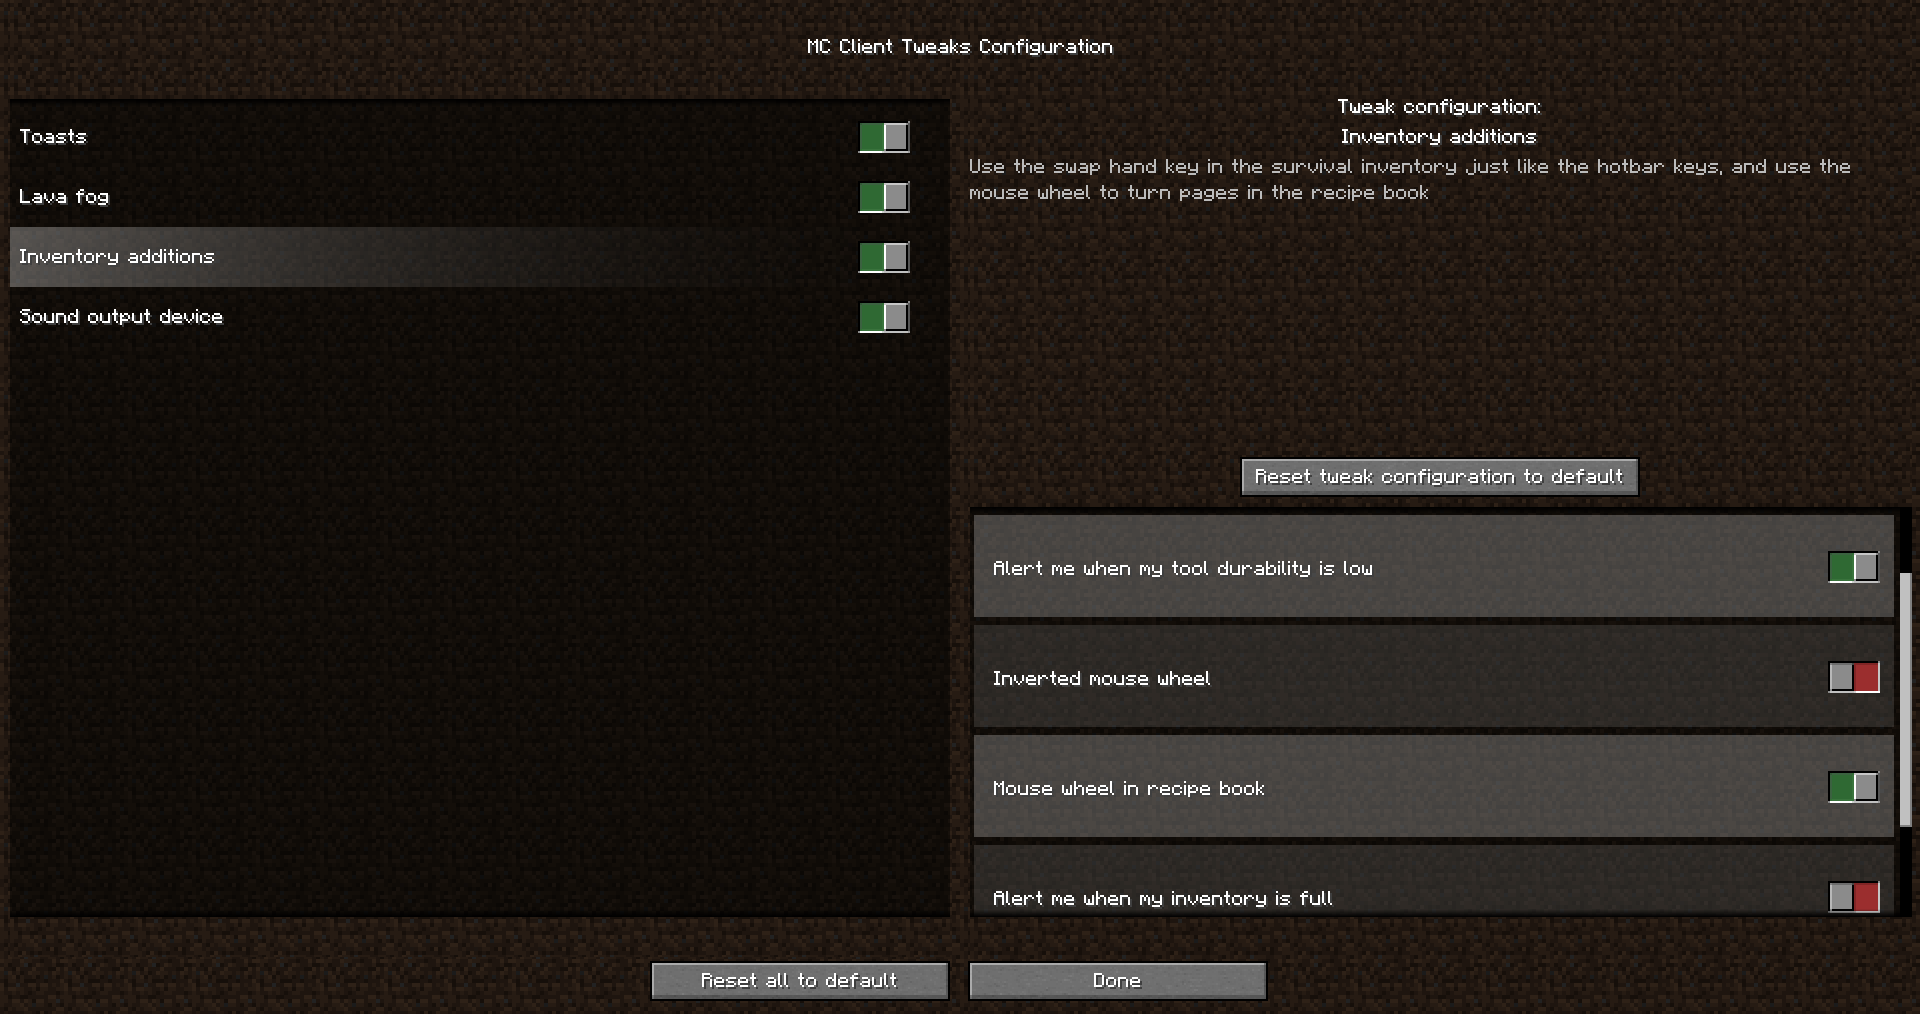
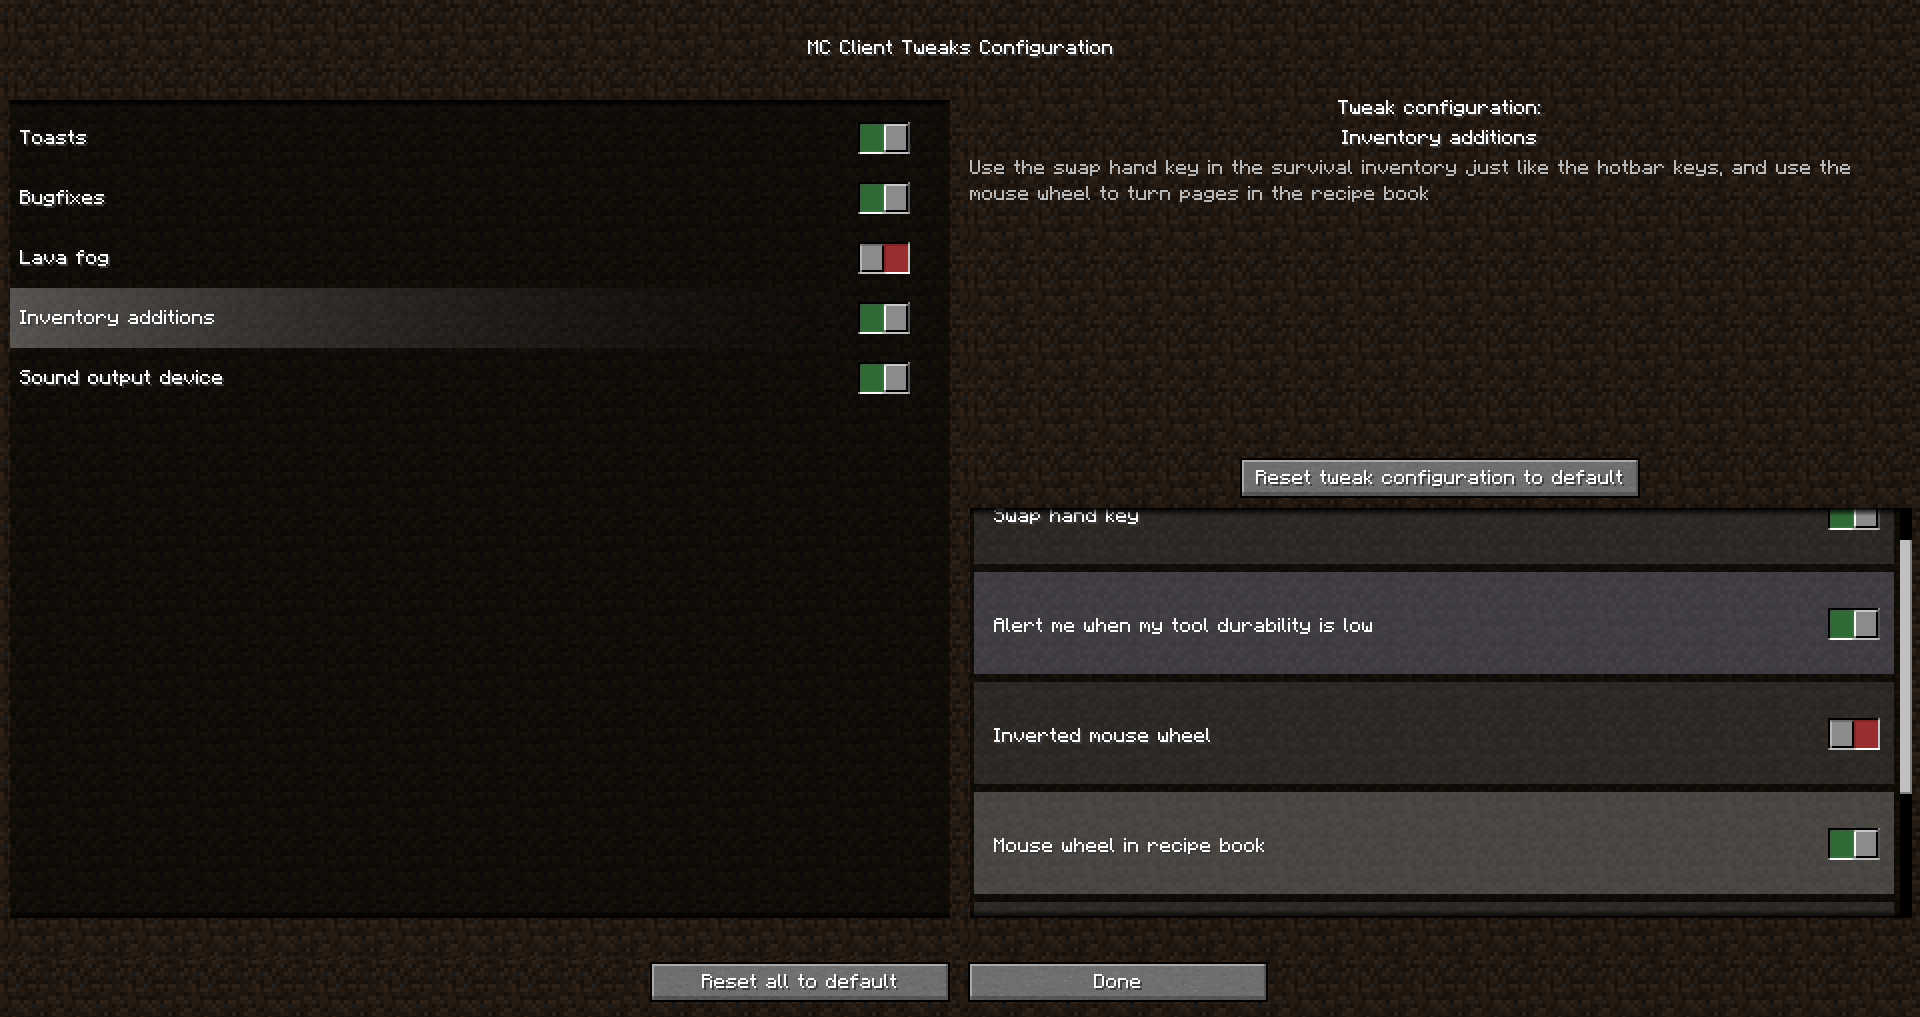
Updated readme

diff --git a/README.md b/README.md
@@ -4,16 +4,24 @@ MC Client Tweaks is a Minecraft [Fabric](https://fabricmc.net/) mod. It is entir
 Each tweak can be toggled on or off and configured in the configuration screen. It can be accessed by pressing the assigned key binding in-game (J by default), or from the mod information page using [Modmenu](https://www.curseforge.com/minecraft/mc-mods/modmenu).
 
 ## Tweaks:
- #### Inventory:
- * The switch hand key can be used in the survival inventory just like the hotbar keys.
+### Inventory:
+ * The switch hand key can be used in the survival inventory just like the hotbar keys (only for 1.15, 1.16 has that feature in the vanilla game).
  * You can scroll the mouse to turn pages in the recipe book.
- #### Miscelaneous:
+ * Get alerts when your inventory is full
+ * Get alerts when your item durability is low
+### Miscelaneous:
  * The audio output device can be changed in the sound/music options menu without restarting the game.
- * The lava fog density can be ajdusted for better visibility under lava
+ * The lava fog density can be adjusted for better visibility under lava (only 1.15, fire resistance already improves visibility under lava in 1.16).
+### Toasts:
+Toasts are the little cards that show up on the upper right side on your screen on specific occasions such as unlocking new recipes. MCCT allows you to disable specific types of toasts.
+### Bugfixes:
+* Vanilla bug [MC-200083](https://bugs.mojang.com/browse/MC-200083) : Opening files hangs the game until the file viewer is closed on Linux (e.g. opening screenshots, resource pack folder, etc...).
  
 ## Compatibility with other mods:
 MC Client Tweaks should be compatible with most mods. You can report incompatibility in the issues section. The lava fog tweak may not wotk with some Optifine/Optifabric versions, but has been tested to work with Optifine 15.2_HD_U_G1_pre13 and Optifabric 1.0.0-beta8.
 
 ## Screenshots:
-![Configuration menu](https://raw.githubusercontent.com/SmylerMC/mcct/master/images/mcct_config_screenshot.png)
-![Lava fog](https://raw.githubusercontent.com/SmylerMC/mcct/master/images/mcct_lava_screenshot.png)
+![Configuration menu](https://raw.githubusercontent.com/SmylerMC/mcct/1.16.5/images/mcct_config_screenshot.png)
+![Audio menu](https://raw.githubusercontent.com/SmylerMC/mcct/1.16.5/images/mcct_audio_screenshot.png)
+![Lava fog](https://raw.githubusercontent.com/SmylerMC/mcct/1.16.5/images/mcct_lava_screenshot.png)
+
